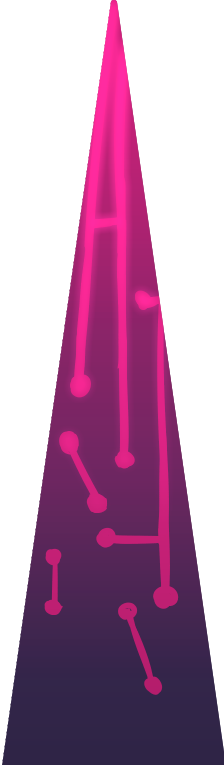
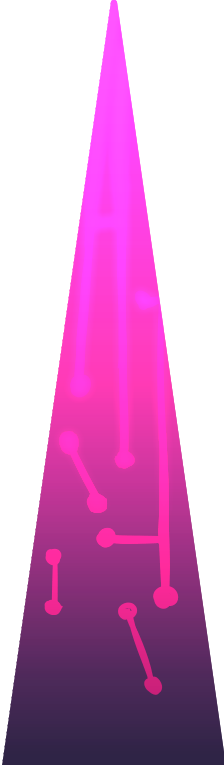
spike glow

diff --git a/Assets/Spike/SpikeScript.cs b/Assets/Spike/SpikeScript.cs
@@ -20,7 +20,10 @@ public class SpikeScript : MonoBehaviour
     void Update()
     {
         float sinus = (Mathf.Sin(Time.time)/2) + 0.5f; //0 - 1
-        SpriteGlow.Color.a = sinus;
+        Debug.Log($"time is: {Time.time}, and sinus is {sinus}");
+        var newColor = SpriteGlow.color;
+        newColor.a = sinus;
+        SpriteGlow.color = newColor;
     }
 
     void OnCollisionEnter2D(Collision2D collision)
